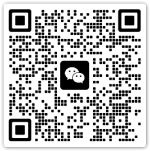
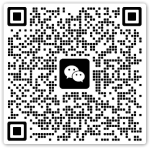
update group qr code 0902

diff --git a/app/locales/cn.ts b/app/locales/cn.ts
@@ -7,13 +7,15 @@ const cn = {
   WIP: "该功能仍在开发中……",
   Error: {
     Unauthorized:
-      "### 网站功能升级，访问密码已更新\n\r" +
-      "1. 请扫下面二维码，在公众号后台回复“**密码**”，获取新密码！\n\r " +
-      "2. *点击这里* =>[**登录入口**](/#/auth)，输入新**密码**授权访问!\n\r" +
-      "> ![avatar](/AI-tech-hub.png) \n\r" +
-      "3. 若使用有问题，请加入下面微信群反馈！！\n\r" +
+      "## 这几天openai官网大面积封号，站点后台的GPT账号都被封禁下线\n\r" +
+      "**等风声过后，会重新上架一批GPT账号，将在微信群通知，请大家静候群通知** \n\r" +
       "> ![avatar](/group-code.png) \n\r",
-    // "4. 最近访问量巨大，已经在后台增加**20个账号负载均衡**，提升对话流畅度，大大降低错误出现的频率，大家珍惜使用，请勿恶意请求！\n\r",
+    // "### 网站功能升级，访问密码已更新\n\r" +
+    // "1. 请扫下面二维码，在公众号后台回复“**密码**”，获取新密码！\n\r " +
+    // "2. *点击这里* =>[**登录入口**](/#/auth)，输入新**密码**授权訪問\n\r" +
+    // "> ![avatar](/AI-tech-hub.png) \n\r" +
+    // "3. 若使用有问题，请加入下面微信群反馈！！\n\r" +
+    // "> ![avatar](/group-code.png) \n\r",
   },
   Auth: {
     Title: "需要密码",

diff --git a/app/locales/en.ts b/app/locales/en.ts
@@ -9,12 +9,15 @@ const en: LocaleType = {
   WIP: "Coming Soon...",
   Error: {
     Unauthorized:
-      "### 网站功能升级，访问密码已更新\n\r" +
-      "1. 请扫下面二维码，在公众号后台回复“**密码**”，获取新密码！\n\r " +
-      "2. *点击这里* =>[**登录入口**](/#/auth)，输入新**密码**授权訪問\n\r" +
-      "> ![avatar](/AI-tech-hub.png) \n\r" +
-      "3. 若使用有问题，请加入下面微信群反馈！！\n\r" +
+      "## 这几天openai官网大面积封号，站点后台的GPT账号都被封禁下线\n\r" +
+      "**等风声过后，会重新上架一批GPT账号，将在微信群通知，请大家静候群通知** \n\r" +
       "> ![avatar](/group-code.png) \n\r",
+    // "### 网站功能升级，访问密码已更新\n\r" +
+    // "1. 请扫下面二维码，在公众号后台回复“**密码**”，获取新密码！\n\r " +
+    // "2. *点击这里* =>[**登录入口**](/#/auth)，输入新**密码**授权訪問\n\r" +
+    // "> ![avatar](/AI-tech-hub.png) \n\r" +
+    // "3. 若使用有问题，请加入下面微信群反馈！！\n\r" +
+    // "> ![avatar](/group-code.png) \n\r",
   },
   Auth: {
     Title: "Need Access Code",
